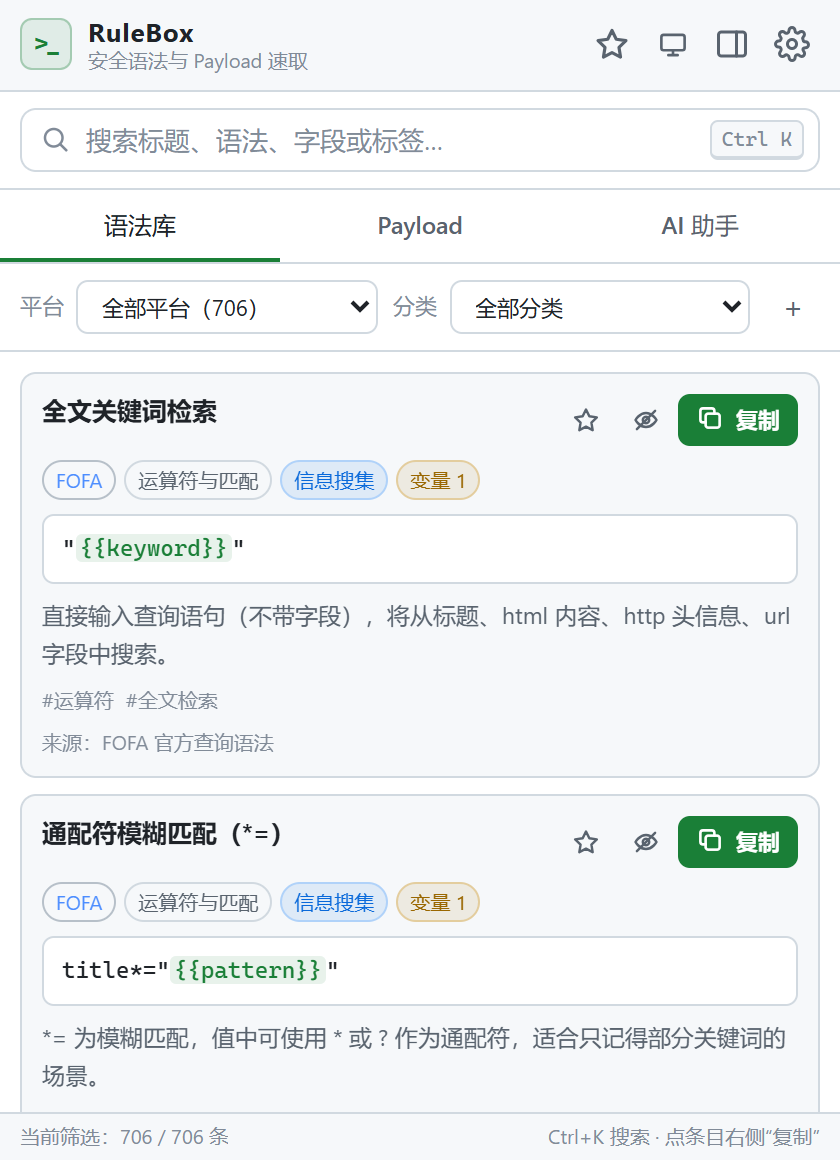
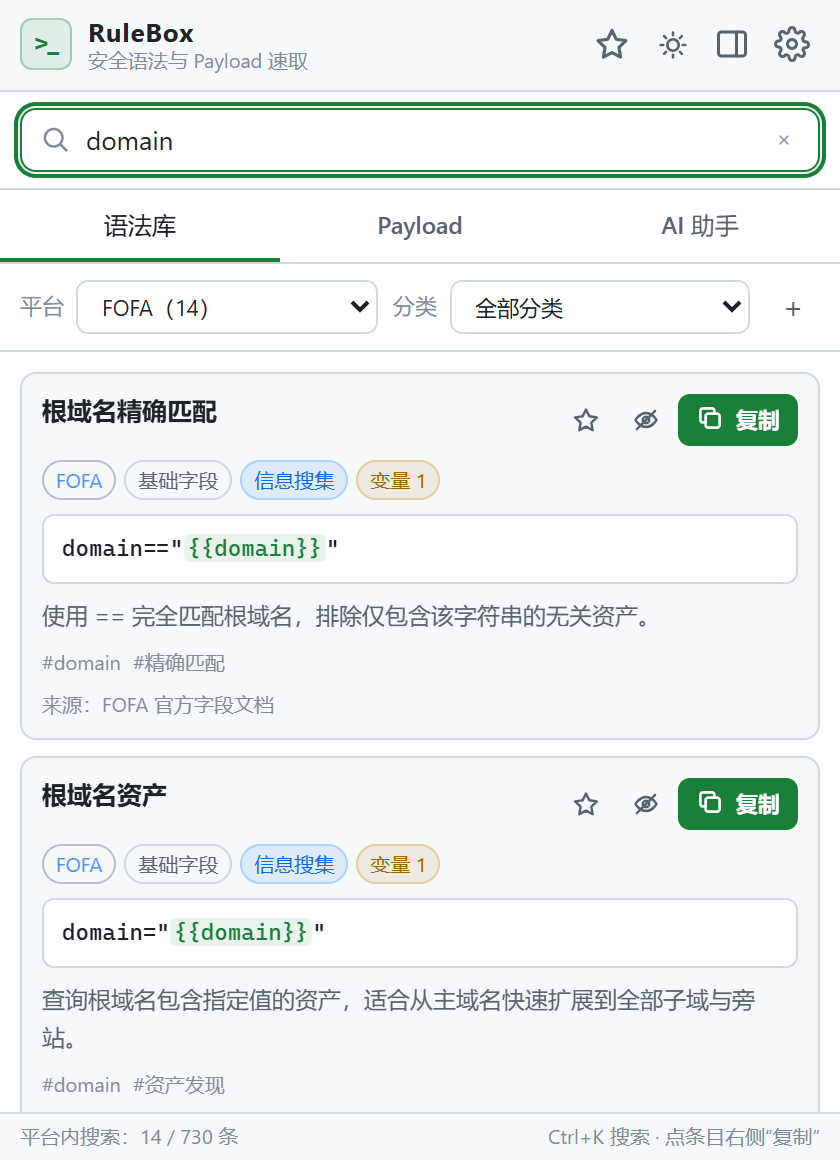
docs: 重做 README 界面预览，补充 Payload 与变量填充流程及演示动图
- 全部截图重新采集，面板与页脚计数更新为 730 条语法、252 条 Payload（旧图 706 已过期）
- 新增 Payload 库截图：类型/分类筛选，252 条分组展示
- 新增变量填充截图：输入 example.com 并实时预览 domain="example.com"
- 新增演示动图 assets/demo-varfill.gif：搜索、点击复制、逐字输入变量、复制反馈
- 深色/浅色两套截图同时更新，设置页同步重截，README 预览区按动图 + 深色 + 浅色折叠组织

diff --git a/README.md b/README.md
@@ -47,10 +47,21 @@
 
 ## 🖼 界面预览
 
+**从搜索到复制（动图）**：搜索语法 → 点复制 → 填写 `example.com` → 预览确认 → 一键复制
+
+<p align="center">
+  <img src="assets/demo-varfill.gif" alt="搜索条目、填写变量并一键复制的完整流程" width="420">
+</p>
+
 **深色主题**（默认）
 
 <p align="center">
-  <img src="assets/screenshot-popup-dark.png" alt="主面板 · 语法库" width="420">
+  <img src="assets/screenshot-popup-dark.png" alt="主面板 · 语法库搜索" width="420">
+  <img src="assets/screenshot-payloads-dark.png" alt="Payload 库 · 按类型与分类筛选" width="420">
+</p>
+
+<p align="center">
+  <img src="assets/screenshot-varfill-dark.png" alt="变量填充 · 实时预览最终语法" width="420">
   <img src="assets/screenshot-ai-dark.png" alt="AI 助手" width="420">
 </p>
 
@@ -64,7 +75,12 @@
 <br>
 
 <p align="center">
-  <img src="assets/screenshot-popup-light.png" alt="主面板 · 浅色" width="420">
+  <img src="assets/screenshot-popup-light.png" alt="主面板 · 语法库搜索 · 浅色" width="420">
+  <img src="assets/screenshot-payloads-light.png" alt="Payload 库 · 浅色" width="420">
+</p>
+
+<p align="center">
+  <img src="assets/screenshot-varfill-light.png" alt="变量填充 · 浅色" width="420">
   <img src="assets/screenshot-ai-light.png" alt="AI 助手 · 浅色" width="420">
 </p>
 
